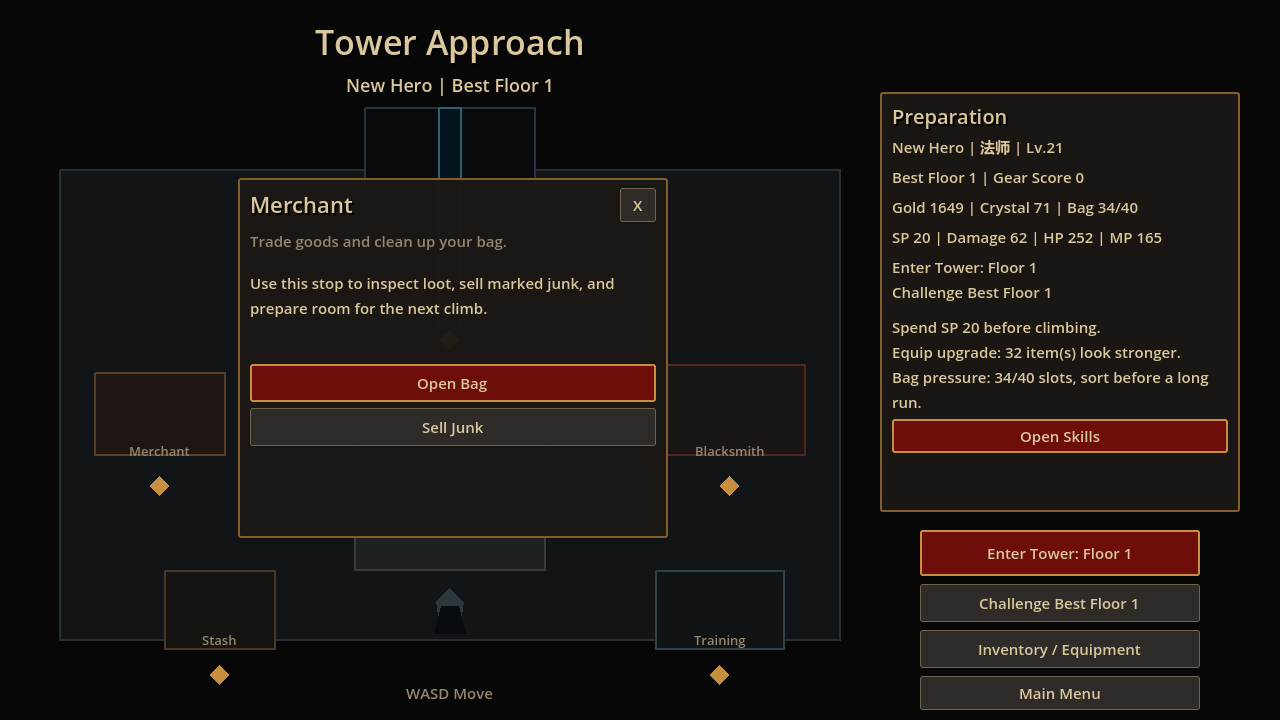
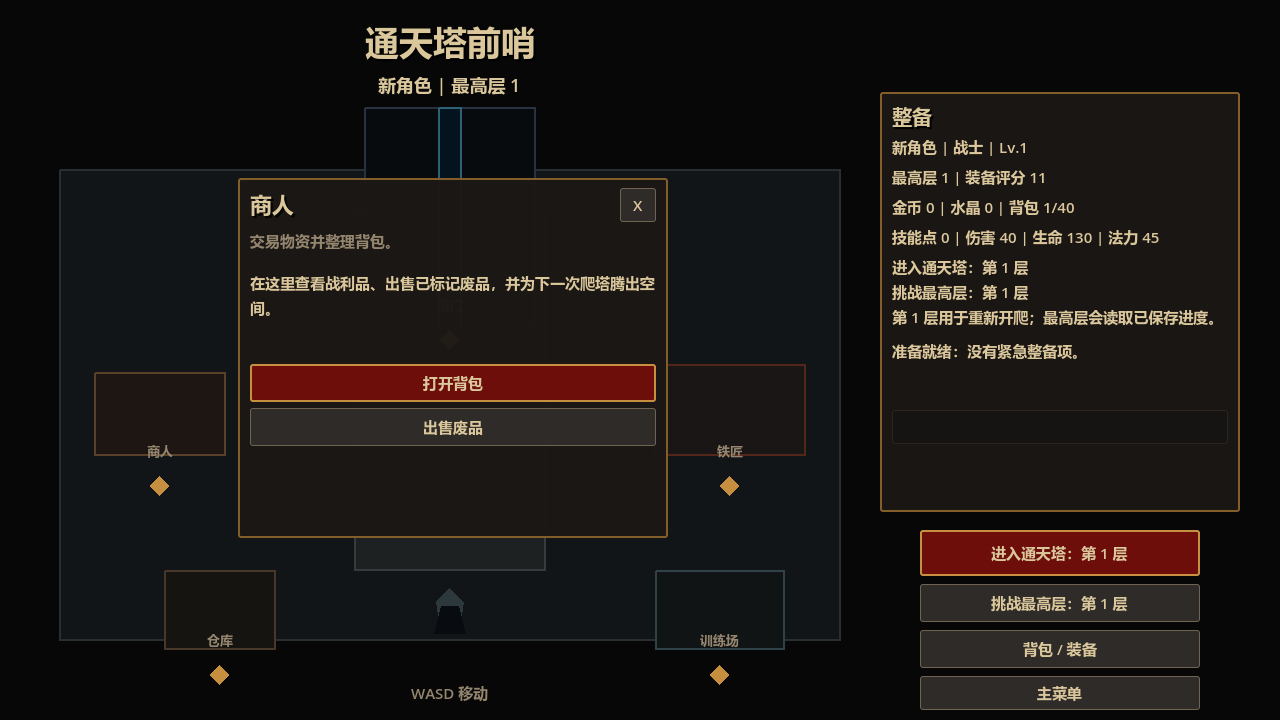
Fix stash visual QA layout

diff --git a/docs/progress/2026-06-20-stash-window-visual-qa-and-screenshot-safety-progress.md b/docs/progress/2026-06-20-stash-window-visual-qa-and-screenshot-safety-progress.md
@@ -1,0 +1,35 @@
+# 2026-06-20 仓库窗口视觉 QA 与截图工具安全进度
+
+## 本轮目标
+
+继续打磨当前可试玩工程，优先处理实机截图中能直接看到的 UI 视觉问题，并修复 QA 工具自身可能卡死的问题。
+
+## 发现的问题
+
+- 仓库窗口在 1280x720 下过宽，会压到右侧整备面板，导致文字互相穿插，视觉层级很乱。
+- 仓库截图里的测试物品和测试角色仍有英文，占位感明显。
+- `qa_capture_*_screenshot.gd` 截图工具在 `--headless` 下读取视口纹理会卡住，容易留下残留 Godot 进程。
+- 仓库截图工具会创建测试角色；必须保证它和回归测试一样走瞬时存档，不能写入玩家真实存档。
+
+## 已完成
+
+- 缩小并下移 `StashWindow`，让仓库窗口避开主城标题和右侧整备栏。
+- 收紧仓库窗口两列列表和说明栏宽度，保留“背包 / 仓库 / 说明”的三栏结构。
+- 将仓库截图工具中的测试角色和测试物品改为中文。
+- `SaveManager` 新增统一的瞬时存档脚本判定，`tests/regression` 和 `tools/qa_*.gd` 都会走瞬时存档。
+- 三个截图工具新增 headless 快速失败保护：截图 QA 必须用带渲染的 Godot 运行，避免视口截图卡死。
+- 重新导出仓库窗口截图：`docs/qa/screenshots/town_stash_window_1280x720.png`。
+
+## 新增 / 更新回归
+
+- 新增 `regression_qa_tools_use_transient_save.gd`：确认 QA 工具不写真实存档。
+- 新增 `regression_qa_screenshot_tools_headless_guard.gd`：确认截图工具具备 headless 防卡死保护。
+- 更新 `regression_stash_window_contract.gd`：确认仓库窗口不遮挡右侧整备栏，并避开主城标题区域。
+
+## 验收标准
+
+- 仓库窗口在 1280x720 下不压右侧整备面板。
+- 仓库窗口不遮挡主城标题和副标题区域。
+- 仓库截图中不再出现英文测试占位物品名。
+- 误用 headless 截图工具时快速退出，不再卡住。
+- QA 截图工具不会污染真实玩家存档。
